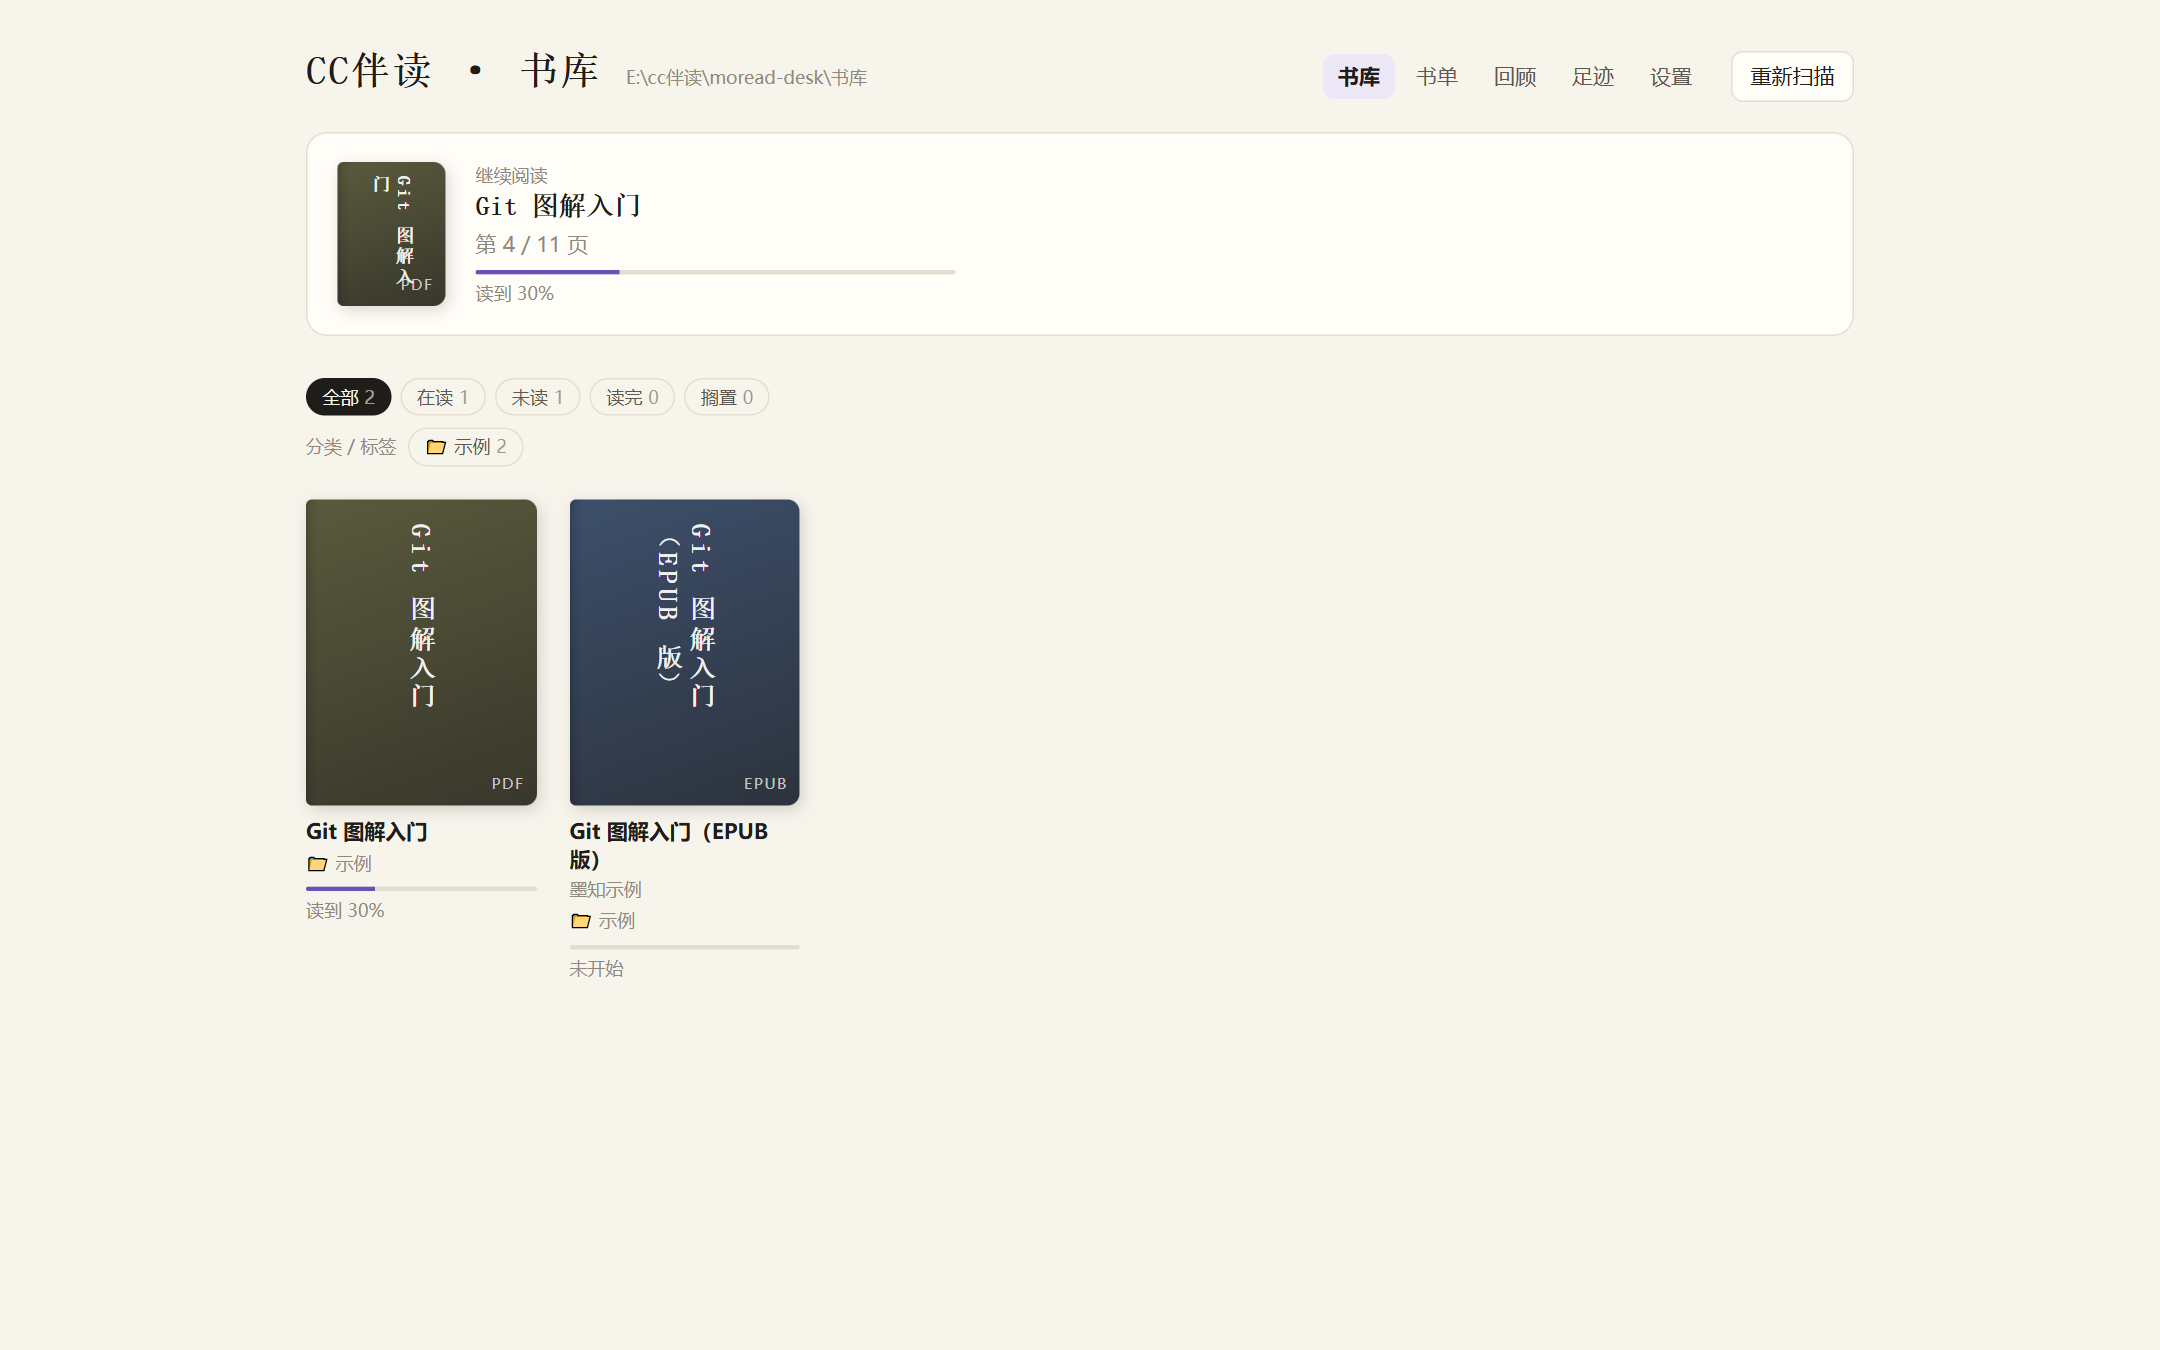
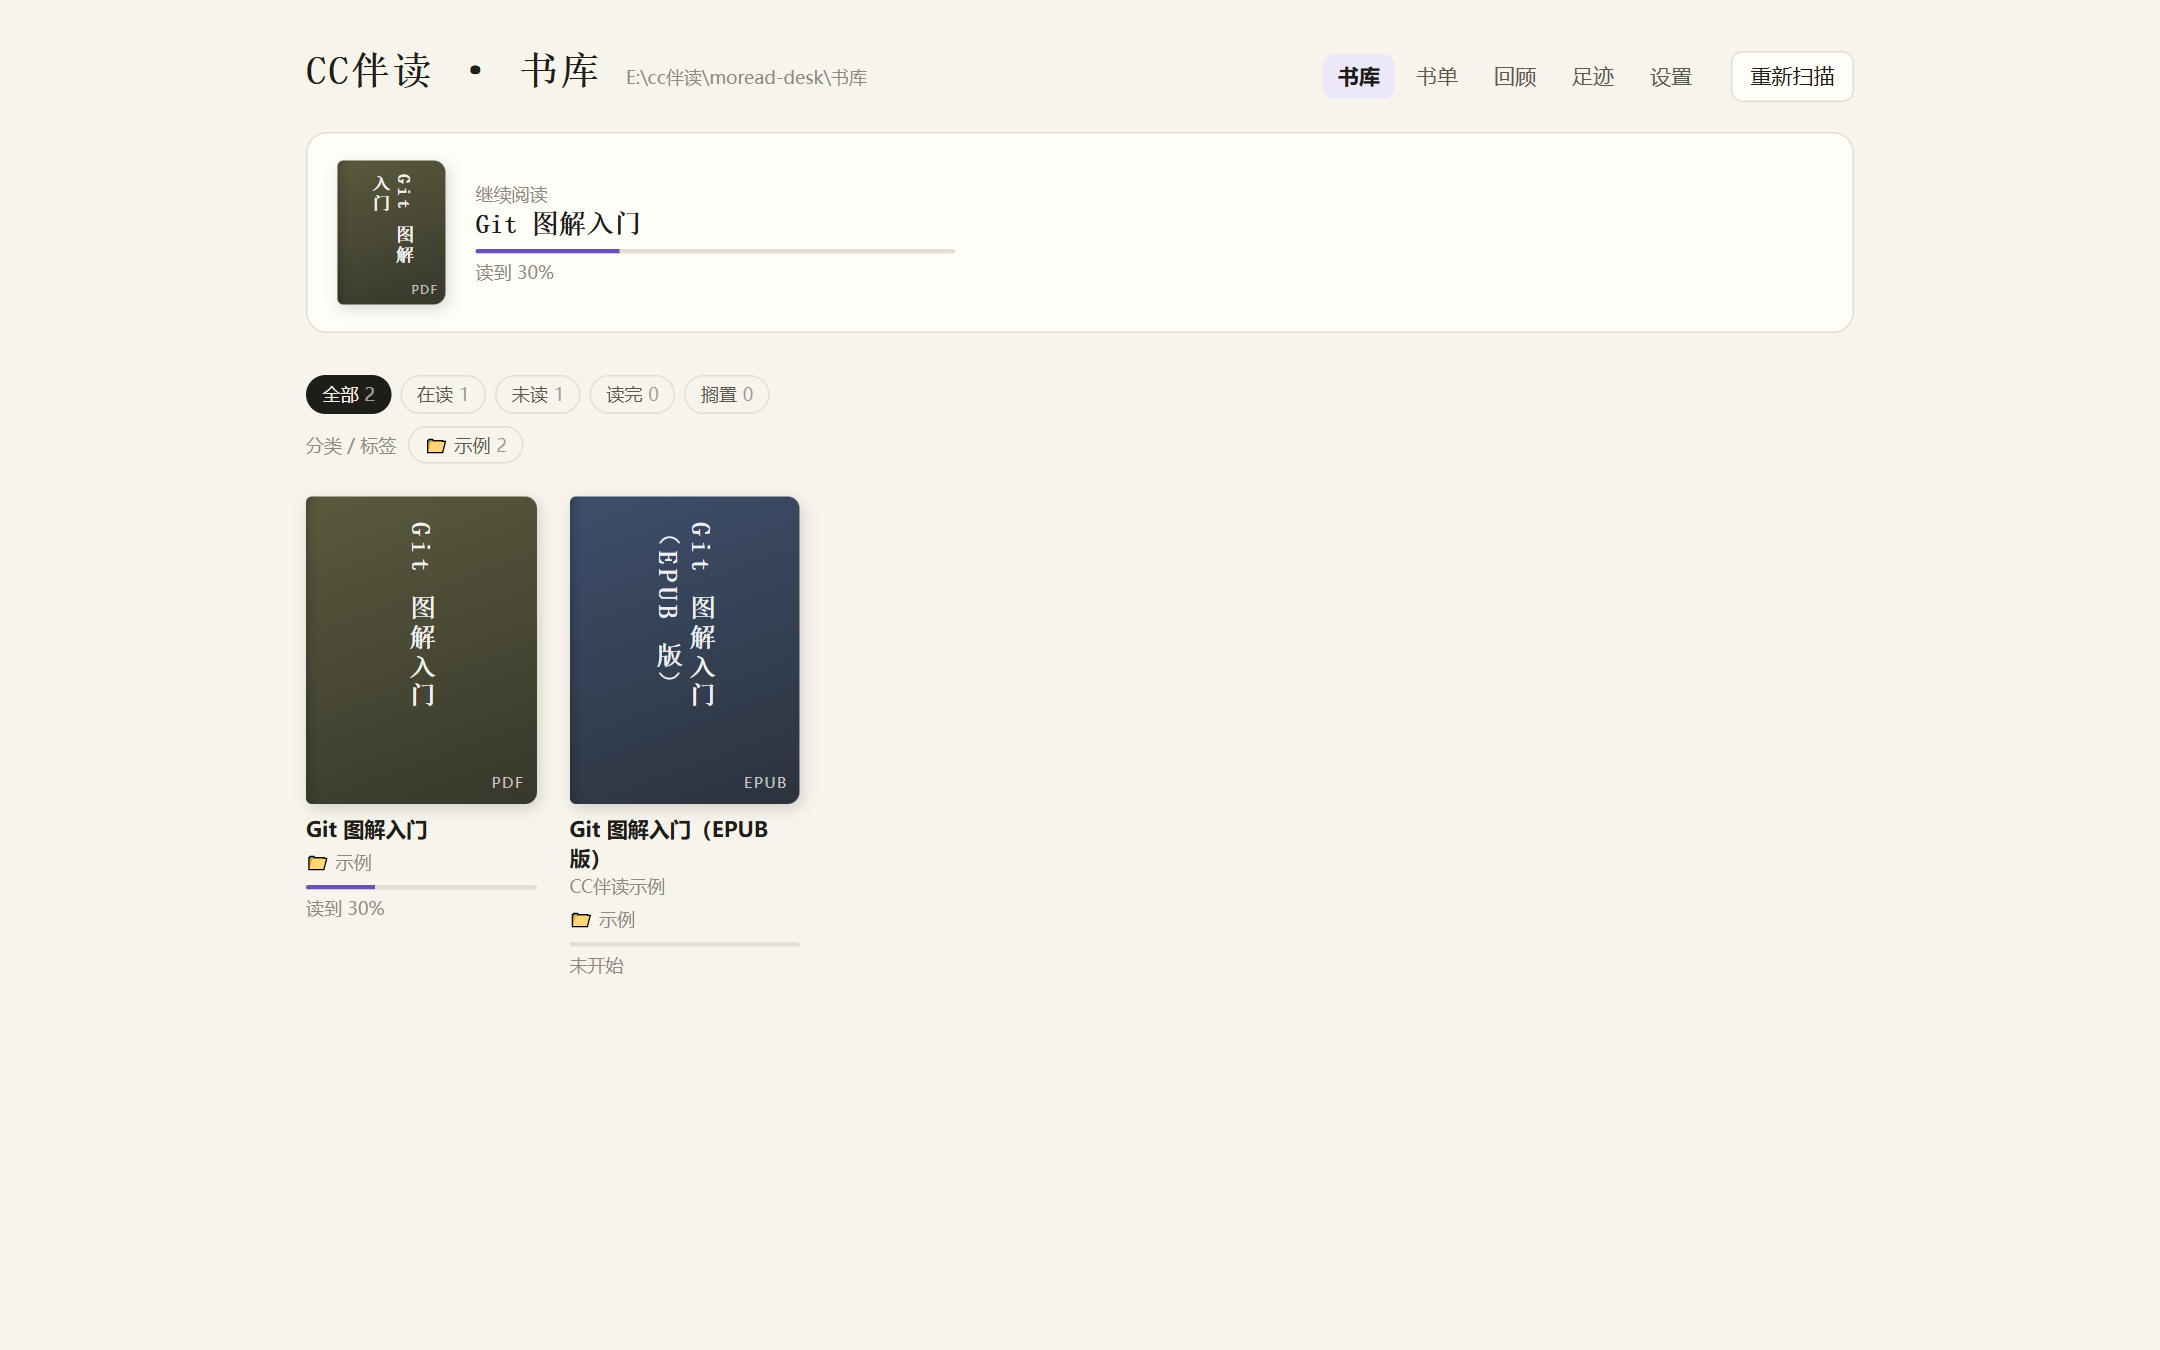
0.6.5：示例书作者改为 CC伴读示例，更新书库截图

diff --git a/CHANGELOG.md b/CHANGELOG.md
@@ -2,6 +2,11 @@
 
 版本号规则：`主版本.功能版本.修复版本`。加了新功能升中间一位，只修 bug 升最后一位。
 
+## 0.6.5 · 2026-11-21
+
+- 修复：书库「继续阅读」里的小封面，书名较长时最后一个字会压到右下角的格式角标上。现在给角标留出位置，书名放不下就换列。
+- 示例 EPUB 的作者从「墨知示例」改为「CC伴读示例」，README 里的书库截图同步更新。
+
 ## 0.6.4 · 2026-11-21
 
 - README 加上截图（示例书 + 演示数据）：阅读页与伴读对话、批注讨论、书库、足迹。
